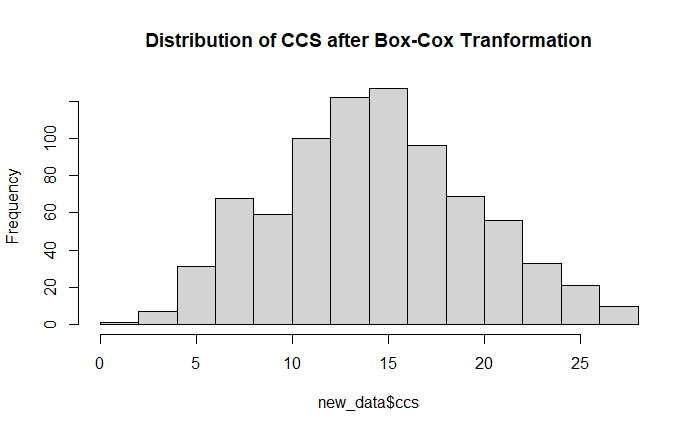
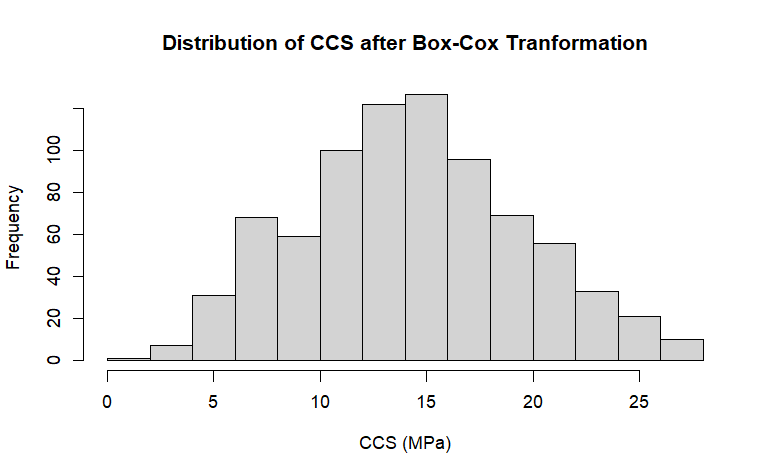
Added final results and new plot, updated histograms and readme

diff --git a/README.md b/README.md
@@ -1,2 +1,12 @@
 # STAT 40233 - Bayesian Methods Final Project
 ### Data Analysis of Concrete Compressive Strength using Linear Regression
+
+Table of Contents:
+
+* Final.qmd - R code and model outputs
+* concrete_data.RData - 800 data points for training and 230 with CCS missing (for making predictions)
+* concrete_data_full.RData - Full dataset including the missing CCS column for the 230 data points
+* 40233_Group_1.RData - Predictions on the 230 data points from concrete_data
+* 40233_Group_1_results.RData - RMSE and interval score of predictions
+* Two histograms of CCS distributions (before and after Box-Cox transformation)
+* Plot of True vs Prediction with 95% CI
